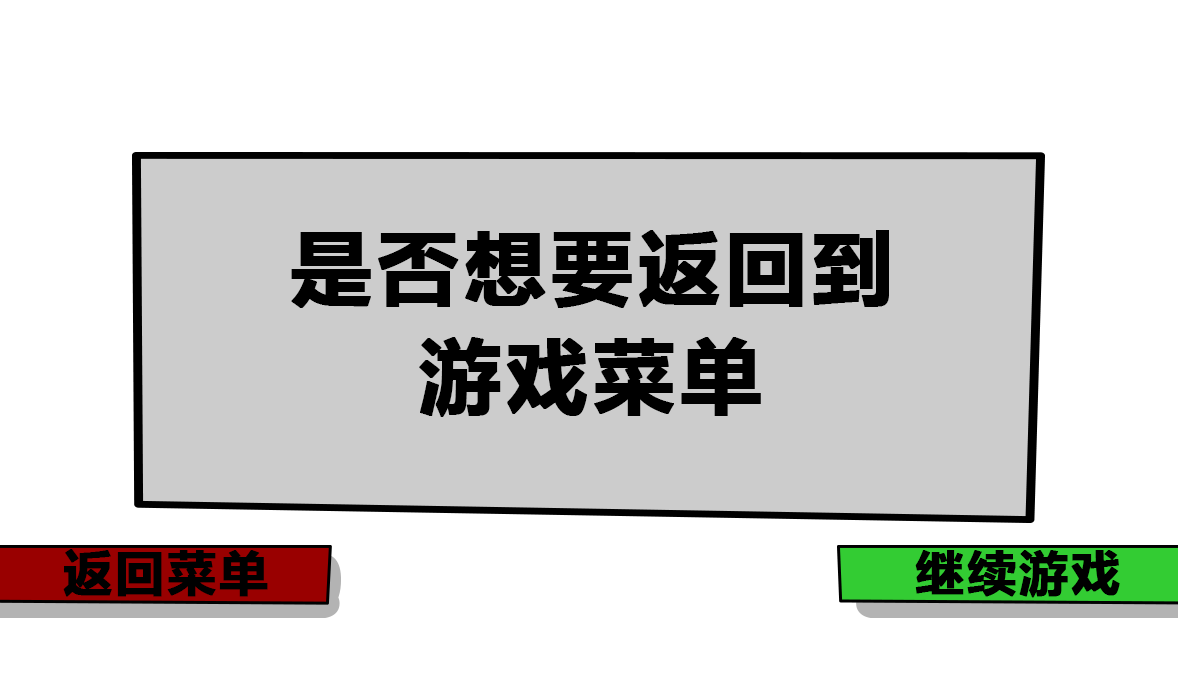
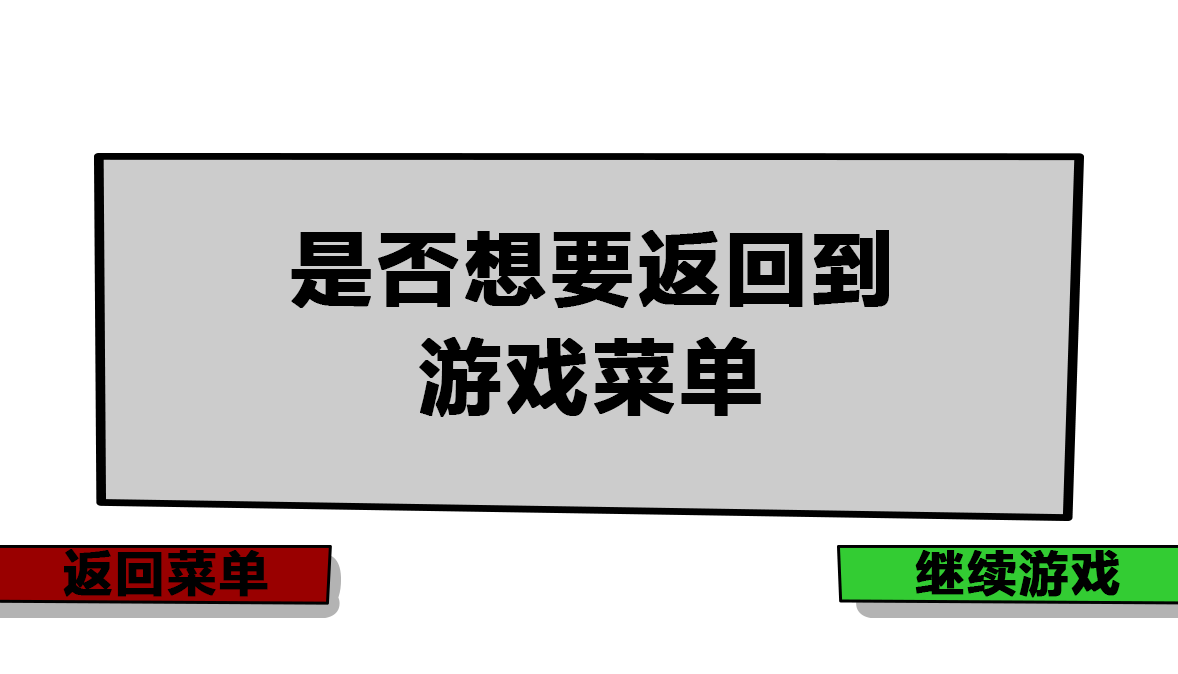
1.optimize some pictures. 2.fix press bug.. 3.fix input lbug.

Changed region(s): [[0.1834, 0.2181, 0.9474, 0.7789], [0.0611, 0.2181, 0.3056, 0.7789], [0.1528, 0.7166, 0.1834, 0.7478]]

diff --git a/main.cpp b/main.cpp
@@ -27,32 +27,40 @@ int main () {
 	
 	while (1) {
 		while (state == menu) {
+			m = getmessage(EM_MOUSE);
+			if (!m.lbutton) {
+				press = false;
+			}
 			putimage(0, 0, &gameimage.start);
 			if (playbgmusic == true)
 				drawAlpha(&gameimage.check, 654, 98);
-			m = getmessage(EM_MOUSE);
-			if (m.lbutton && m.x > 709 && m.x < 1109 && m.y > 368 && m.y < 438) {
+			if (m.lbutton && m.x > 709 && m.x < 1109 && m.y > 368 && m.y < 438 && !press) {
+				press = true;
 				state = game;
 				flushmessage(EM_MOUSE);
 				startgame();
 			}
-			if (m.lbutton && m.x > 709 && m.x < 1109 && m.y > 456 && m.y < 526) {
+			if (m.lbutton && m.x > 709 && m.x < 1109 && m.y > 456 && m.y < 526 && !press) {
+				press = true;
 				state = game;
 				flushmessage(EM_MOUSE);
 				startgame();
 				loaddata();
 			}
-			if (m.lbutton && m.x > 709 && m.x < 1109 && m.y > 544 && m.y < 613) {
+			if (m.lbutton && m.x > 709 && m.x < 1109 && m.y > 544 && m.y < 613 && !press) {
+				press = true;
 				closegraph();
 				flushmessage(EM_MOUSE);
 				return 0;
 			}
-			if (m.lbutton && m.x > 786 && m.x < 1033 && m.y > 66 && m.y < 124) {
+			if (m.lbutton && m.x > 786 && m.x < 1033 && m.y > 66 && m.y < 124 && !press) {
+				press = true;
 				state = state_setting;
 				flushmessage(EM_MOUSE);
 				showsettings();
 			}
-			if (m.lbutton && m.x > 572 && m.x < 698 && m.y > 68 && m.y < 125) {
+			if (m.lbutton && m.x > 572 && m.x < 698 && m.y > 68 && m.y < 125 && !press) {
+				press = true;
 				if (playbgmusic == true) {
 					playbgmusic = false;
 				}
@@ -70,38 +78,49 @@ int main () {
 			putimage(centerx(gameimage.background1, gameimage.background2[1]), 0, &gameimage.background2[1], SRCINVERT);
 			showpanel();
 			showrole();
-			initkey();
-			getorder();
+
 			move1(role[0], clock() - time);
 			move2(role[1], clock() - time);
 			updataimage();
 			updatabullet();
+			initkey();
+			getorder();
 			death();
 			EndBatchDraw();
 		}
 		while (state == over) {
-			PlaySound(NULL, NULL, SND_FILENAME | SND_PURGE);
 			m = getmessage(EM_MOUSE);
-			if (m.lbutton && m.x > 837 && m.y > 545 && m.y < 600) {
+			if (!m.lbutton) {
+				press = false;
+			}
+			PlaySound(NULL, NULL, SND_FILENAME | SND_PURGE);
+			if (m.lbutton && m.x > 837 && m.y > 545 && m.y < 600 && !press) {
+				press = true;
 				state = game;
 				flushmessage(EM_MOUSE);
 				startgame();
 			}
-			if (m.lbutton && m.x < 330 && m.y > 545 && m.y < 600) {
+			if (m.lbutton && m.x < 330 && m.y > 545 && m.y < 600 && !press) {
+				press = true;
 				state = menu;
 				flushmessage(EM_MOUSE);
 			}
 		}
 		while (state == back) {
-			PlaySound(NULL, NULL, SND_FILENAME | SND_PURGE);
 			m = getmessage(EM_MOUSE);
-			if (m.lbutton && m.x > 837 && m.y > 545 && m.y < 600) {
+			if (!m.lbutton) {
+				press = false;
+			}
+			PlaySound(NULL, NULL, SND_FILENAME | SND_PURGE);
+			if (m.lbutton && m.x > 837 && m.y > 545 && m.y < 600 && !press) {
+				press = true;
 				state = game;
 				if(playbgmusic == true)
 					PlaySound(_T("audio\\bgmusic.wav"), NULL, SND_ASYNC | SND_FILENAME | SND_LOOP);
 				flushmessage(EM_MOUSE);
 			}
-			if (m.lbutton && m.x < 330 && m.y > 545 && m.y < 600) {
+			if (m.lbutton && m.x < 330 && m.y > 545 && m.y < 600 && !press) {
+				press = true;
 				state = menu;
 				flushmessage(EM_MOUSE);
 				savedata();
@@ -109,24 +128,32 @@ int main () {
 		}
 		while (state == state_setting) {
 			m = getmessage(EM_MOUSE);
-			if (m.lbutton && m.x > 679 && m.x < 1079 && m.y > 450 && m.y < 520) {
+			if (!m.lbutton) {
+				press = false;
+			}
+			if (m.lbutton && m.x > 679 && m.x < 1079 && m.y > 450 && m.y < 520 && !press) {
+				press = true;
 				state = game;
 				flushmessage(EM_MOUSE);
 				startgame();
 			}
-			if (m.lbutton && m.x > 679 && m.x < 1079 && m.y > 566 && m.y < 635) {
+			if (m.lbutton && m.x > 679 && m.x < 1079 && m.y > 566 && m.y < 635 && !press) {
+				press = true;
 				state = menu;
 				flushmessage(EM_MOUSE);
 			}
-			if (m.lbutton && m.x > 383 && m.x < 534 && m.y > 577 && m.y < 635) {
+			if (m.lbutton && m.x > 383 && m.x < 534 && m.y > 577 && m.y < 635 && !press) {
+				press = true;
 				changesetting(rolelives);
 				flushmessage(EM_MOUSE);
 			}
-			if (m.lbutton && m.x > 383 && m.x < 534 && m.y > 332 && m.y < 390) {
+			if (m.lbutton && m.x > 383 && m.x < 534 && m.y > 332 && m.y < 390 && !press) {
+				press = true;
 				changesetting(player1);
 				flushmessage(EM_MOUSE);
 			}
-			if (m.lbutton && m.x > 973 && m.x < 1124 && m.y > 332 && m.y < 390) {
+			if (m.lbutton && m.x > 973 && m.x < 1124 && m.y > 332 && m.y < 390 && !press) {
+				press = true;
 				changesetting(player2);
 				flushmessage(EM_MOUSE);
 			}

diff --git a/show.cpp b/show.cpp
@@ -1,6 +1,6 @@
 #include "show.h"
-TCHAR lives1[10];
-TCHAR lives2[10];
+TCHAR lives1[64];
+TCHAR lives2[64];
 
 void gameover(int winnernum) {
 	drawAlpha(&gameimage.winner[winnernum - 1], 0, 0);

diff --git a/key.h b/key.h
@@ -19,6 +19,7 @@ enum inputkey {
 };
 extern bool presskey[50];
 extern int myinputkey;
+extern bool press;
 
 extern clock_t bullet_time1, bullet_time2;
 

diff --git a/key.cpp b/key.cpp
@@ -5,6 +5,7 @@ int myinputkey;
 bool presskey[50];
 int kb;
 bool wkb = false;
+bool press;
 
 clock_t bullet_time1, bullet_time2;
 
